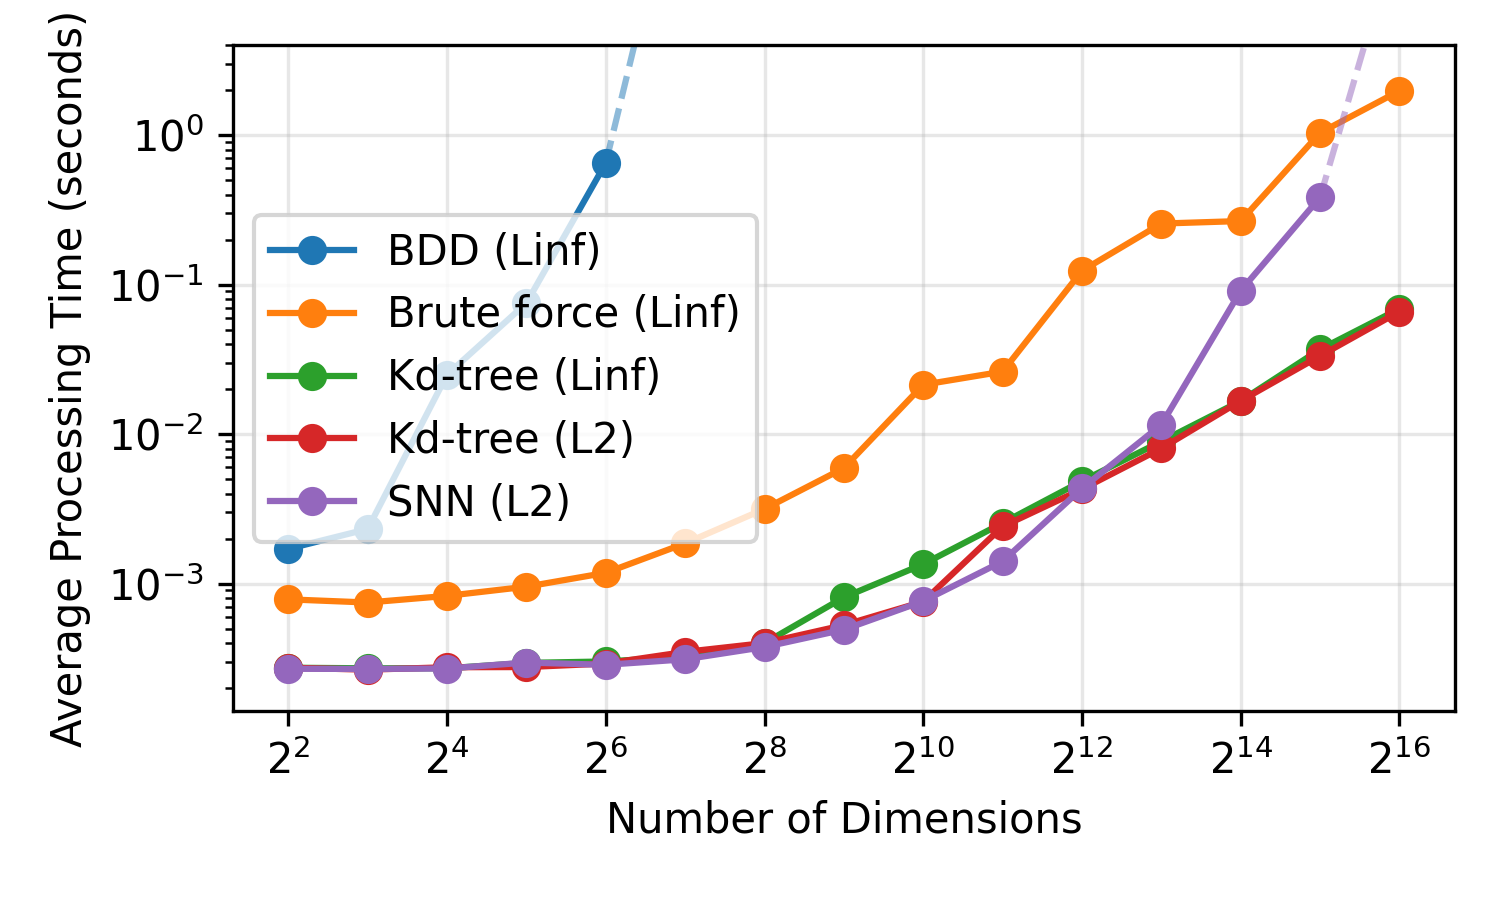
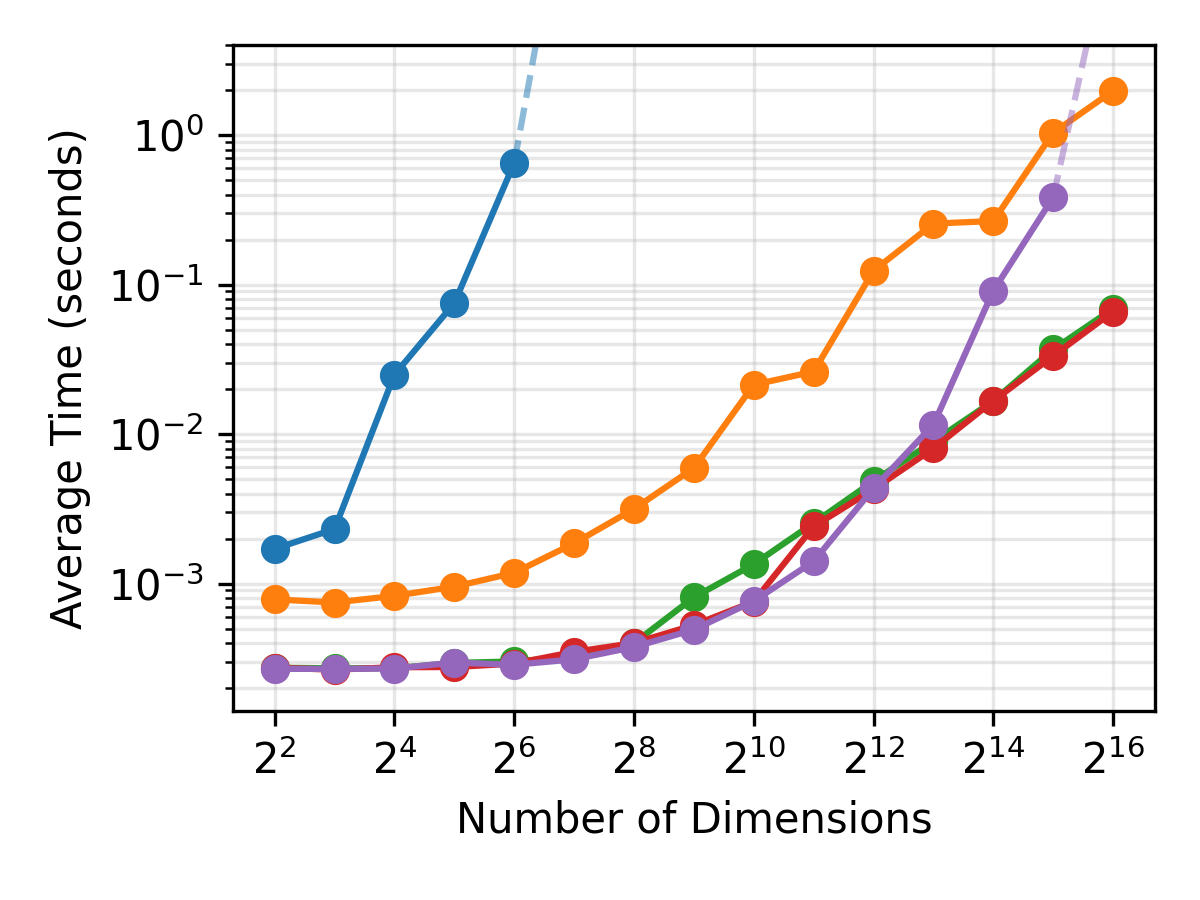
tweaks to presentation

diff --git a/results/fairness/get_percentages.py b/results/fairness/get_percentages.py
@@ -14,7 +14,7 @@ def get_dataset_size(dataset_name, source):
         }
     else:  # lcifr
         sizes = {
-            'adult': "TODO",
+            'adult': 45222,
             'compas': 4223,
             'german': 801
         }
@@ -38,7 +38,7 @@ def process_files():
         dataset_size = get_dataset_size(dataset, 'certifair')
         percentage = (unique_count / dataset_size) * 100
         
-        results.append((f"Certifair {dataset.title()} {mode} P2 eps={eps}", percentage))
+        results.append(("Certifair", dataset.title(), f"P2 {mode}", eps, percentage))
     
     # Process LCIFR files
     lcifr_files = glob.glob('./results/lcifr/*.json')
@@ -56,12 +56,20 @@ def process_files():
         dataset_size = get_dataset_size(dataset, 'lcifr')
         percentage = (unique_count / dataset_size) * 100
         
-        results.append((f"Lcifr {dataset.title()} Dl2-{dl2} eps={eps}", percentage))
+        results.append(("Lcifr", dataset.title(), f"Dl2 {dl2}", eps, percentage))
     
     # Sort by percentage and print
     results.sort()
-    for description, percentage in results:
-        print(f"{description} {percentage:.2f}%")
+    for p in "Lcifr Certifair".split():
+        print(p)
+        for d in "Adult Compas German".split():
+            print("\t", d)
+            for e in "0.0025 0.005 0.01 0.02 0.04 0.08 0.12 0.16 0.2 0.24 0.28 0.32".split():
+                print("\t","\t",  e)
+                for paper, dataset, fairness, eps, percentage in results:
+                    #if paper == p and dataset == d and eps == e:
+                    if dataset == d and eps == e:
+                        print("\t", "\t", "\t", f"{paper:10}\t{fairness:10}\t{percentage:.2f}%")
 
 if __name__ == "__main__":
     process_files()

diff --git a/results/par/plot.py b/results/par/plot.py
@@ -17,8 +17,10 @@ def get_average_time(json_path):
 
 results_dir = 'results'
 methods = sorted(os.listdir(results_dir))
+methods[0], methods[1] = methods[1], methods[0]
+methods[3], methods[4] = methods[4], methods[3]
 
-plt.figure(figsize=(5, 3))
+plt.figure(figsize=(4, 3))
 
 y_min = 0.0001
 y_max = 0.8
@@ -66,12 +68,12 @@ for method in methods:
     thread_style = method.split('-')[1]  # Gets '1t', '16t', or '96t'
     
     method_displaynames = {
-        "kdtree-1t": "Kd-tree (1 thread)",
-        "kdtree-16t": "Kd-tree (16 threads)",
-        "kdtree-96t": "Kd-tree (96 threads)",
-        "bdd-1t": "BDD (1 thread)",
-        "bdd-16t": "BDD (16 threads)",
-        "bdd-96t": "BDD (96 threads)",
+        "kdtree-1t": "Kd-tree 1t",
+        "kdtree-16t": "Kd-tree 16t",
+        "kdtree-96t": "Kd-tree 96t",
+        "bdd-1t": "BDD 1t",
+        "bdd-16t": "BDD 16t",
+        "bdd-96t": "BDD 96t",
     }
     
     # Plot line for all points
@@ -87,9 +89,9 @@ plt.xscale('log', base=2)
 plt.yscale('log')
 plt.ylim(top=y_max)
 plt.xlabel('Number of Dimensions')
-plt.ylabel('Average Processing Time (seconds)')
+plt.ylabel('Average Time (seconds)')
 plt.grid(True, which="both", ls="-", alpha=0.3)
-plt.legend()
+#plt.legend()
 even_powers = np.arange(2, 17, 2)
 plt.xticks(2**even_powers, [f'$2^{{{p}}}$' for p in even_powers])
 plt.tight_layout()

diff --git a/results/dimcomp/plot.py b/results/dimcomp/plot.py
@@ -18,7 +18,7 @@ def get_average_time(json_path):
 results_dir = 'results'
 methods = sorted(os.listdir(results_dir))
 
-plt.figure(figsize=(5, 3))
+plt.figure(figsize=(4, 3))
 
 for method in methods:
     method_dir = os.path.join(results_dir, method)
@@ -55,16 +55,16 @@ plt.xscale('log', base=2)
 plt.yscale('log')
 plt.ylim(top=4)
 plt.xlabel('Number of Dimensions')
-plt.ylabel('Average Processing Time (seconds)')
+plt.ylabel('Average Time (seconds)')
 #plt.title('Processing Time vs Dimensions by Method')
-plt.grid(True, alpha=0.3)
+plt.grid(True, which="both", ls="-", alpha=0.3)
 # Set x-axis ticks to even powers
 even_powers = np.arange(2, 17, 2)
 plt.xticks(2**even_powers, [f'$2^{{{p}}}$' for p in even_powers])
 
 
 
-plt.legend()
+#plt.legend()
 plt.tight_layout()
 plt.savefig('dimensions.png', dpi=300)
 plt.close()
